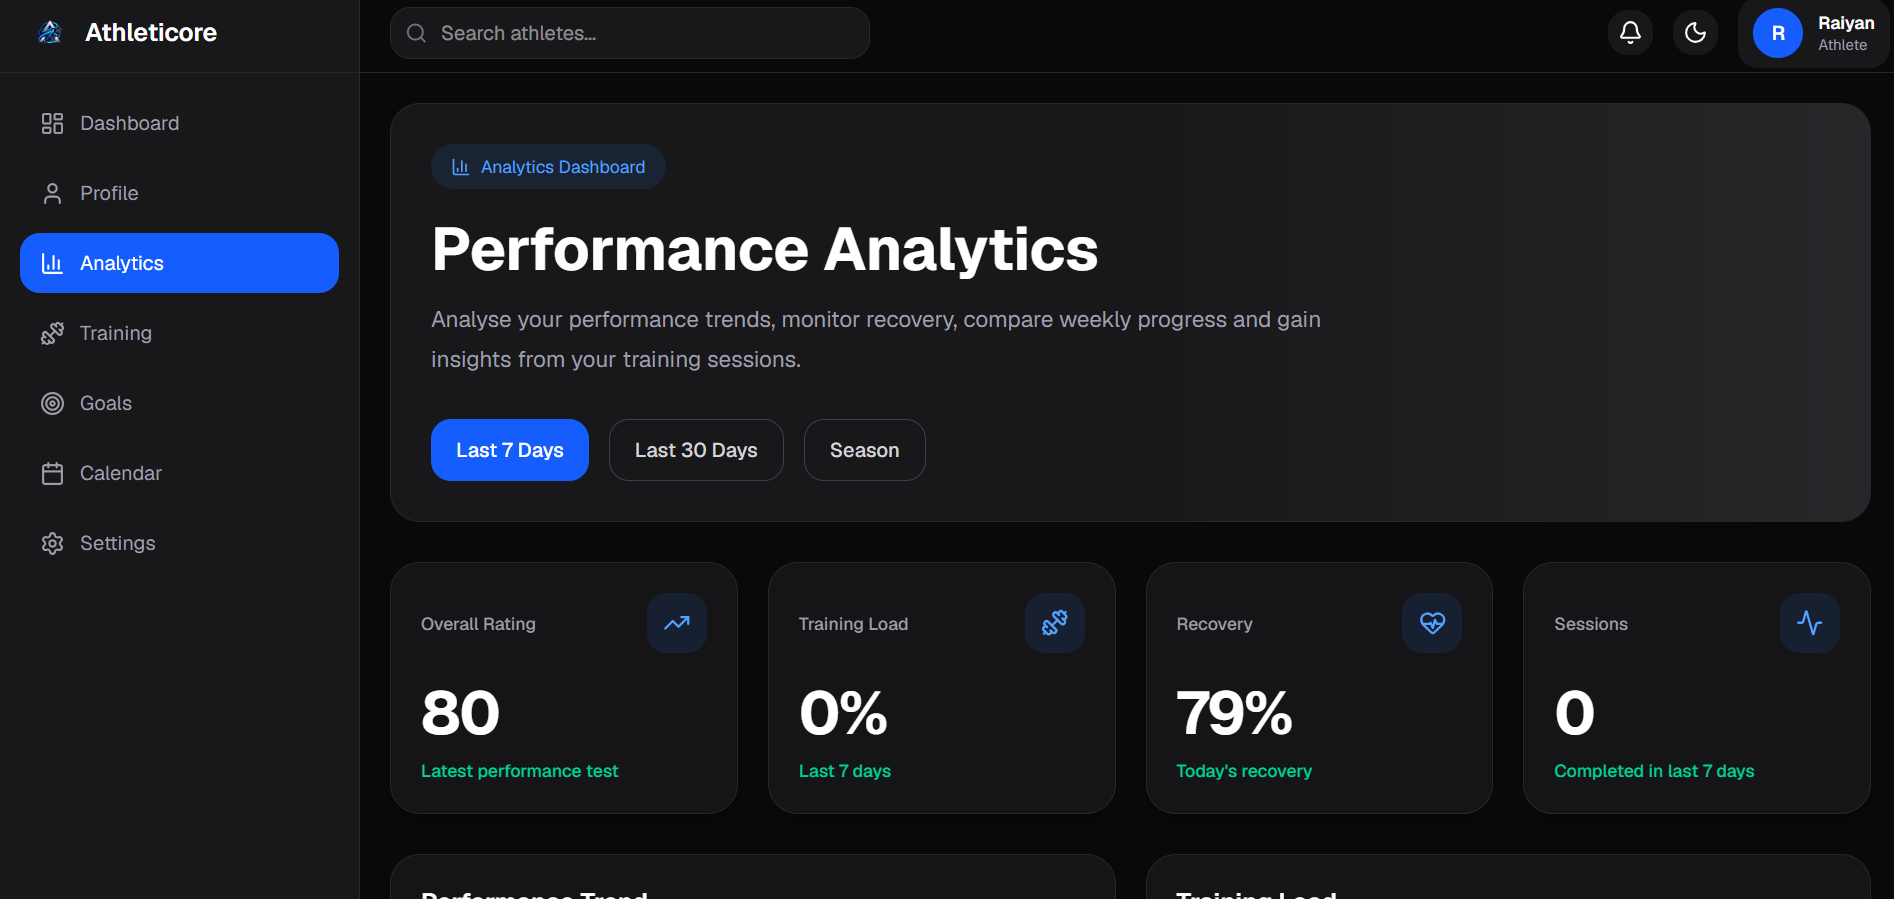
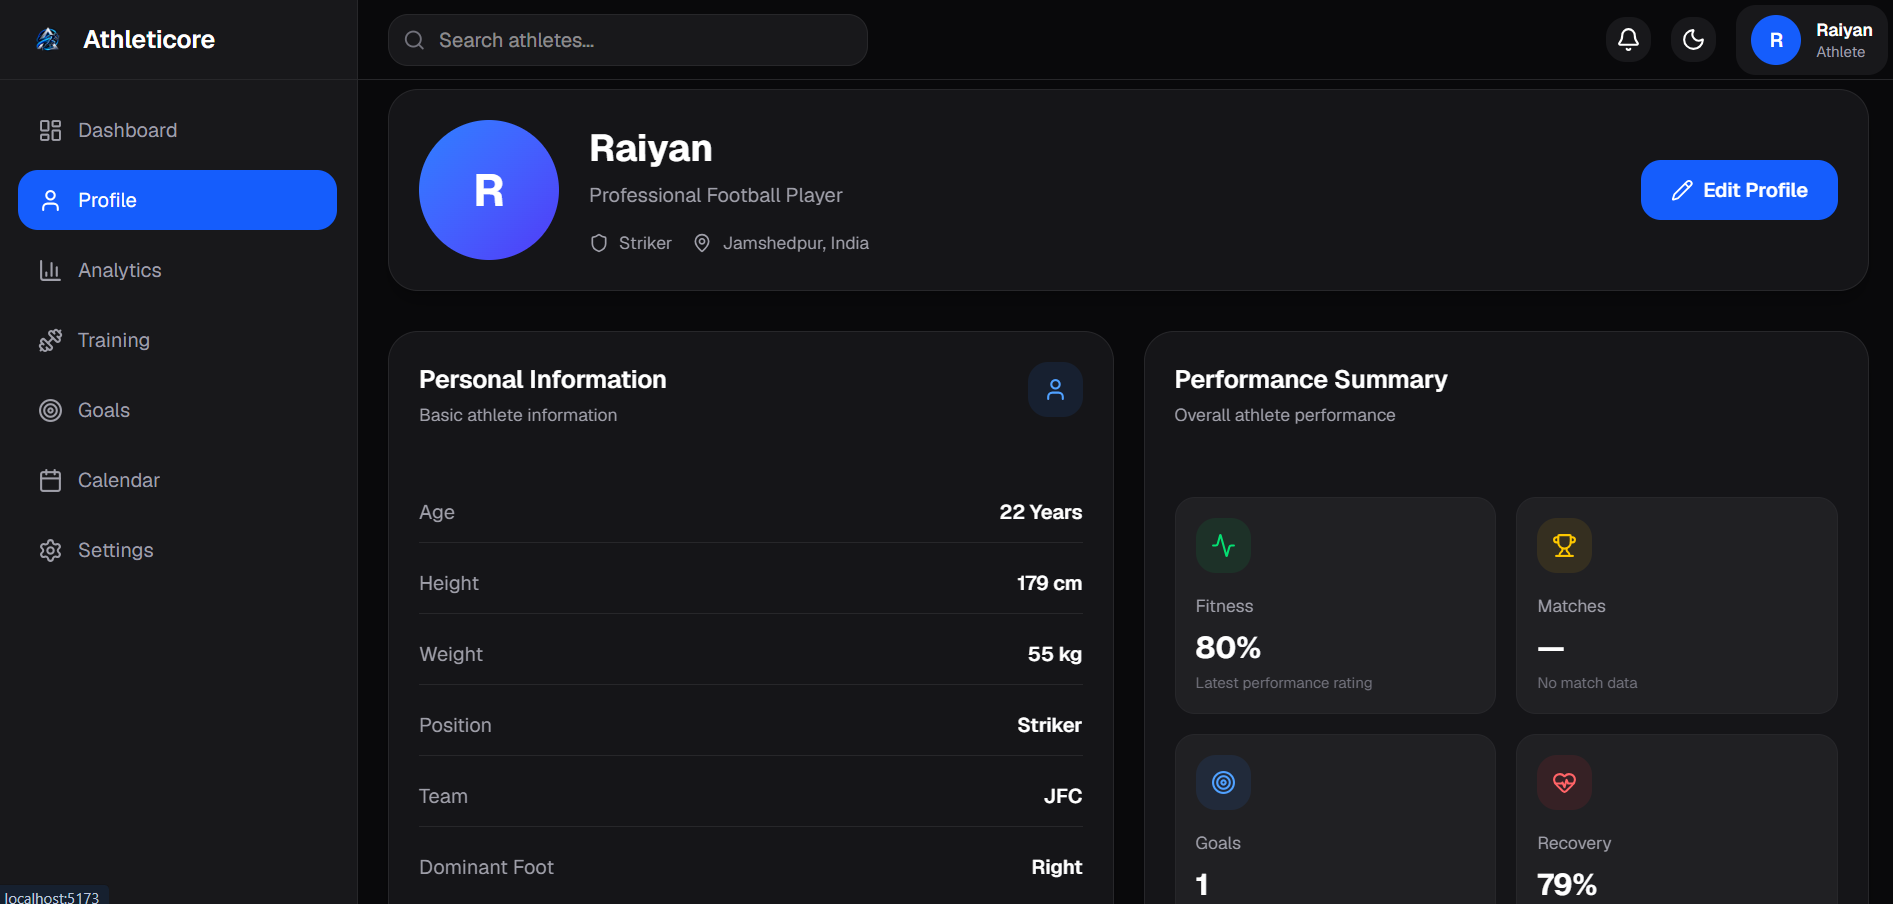
screenshots updated

diff --git a/README.md b/README.md
@@ -149,8 +149,6 @@ src/
 
 ## 📸 Screenshots
 
-## 📸 Screenshots
-
 ### 🔐 Login
 
 ![Login](./screenshots/login.png)
